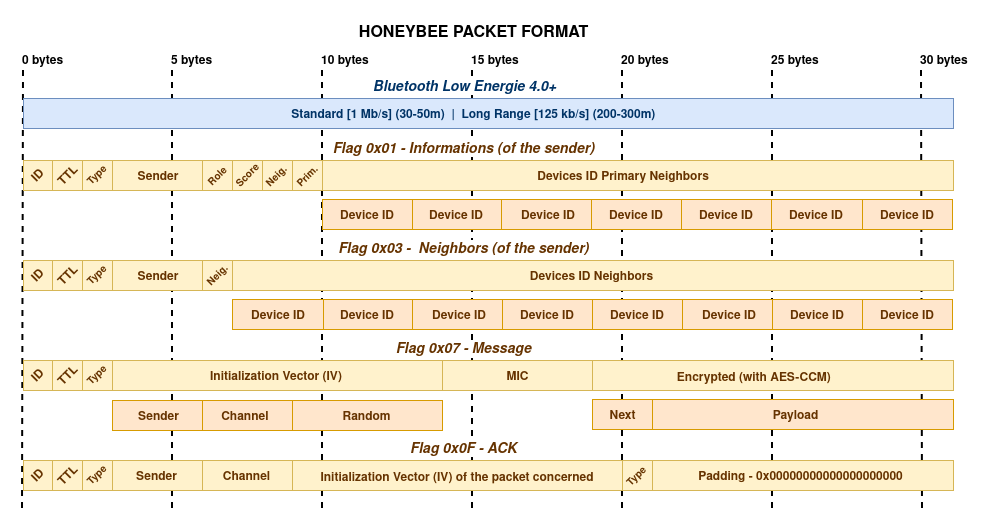
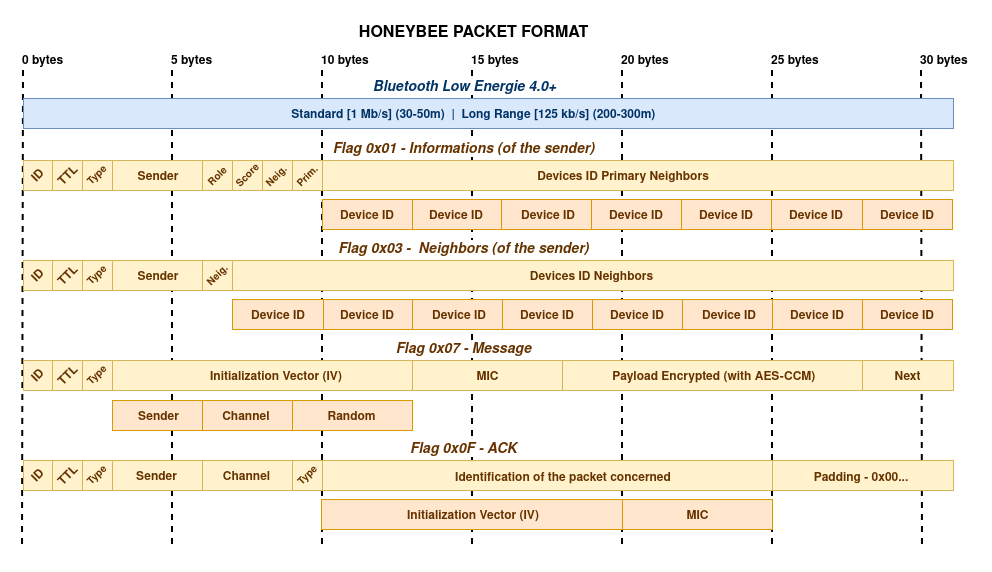
Change frame structure

diff --git a/mechanisms/PACKET.md b/mechanisms/PACKET.md
@@ -45,7 +45,7 @@ Type provide information about the type of packet?
 | **Score**     | 1     |                                                    | `0x12`               |
 | **Neighbor**  | 1     | Number of the neighbor.                            | `0xA1`               |
 | **Primary**   | 1     | Number of the primary neighbor.                    | `0x01`               |
-| **Devices ID Primary** | 21    | Contains max seven (7) devices ID.        |                      |
+| **Devices ID Primary** | 21    | Contains max seven (7) devices ID.        | -                     |
 
 ---
 
@@ -55,7 +55,7 @@ Type provide information about the type of packet?
 | ------------- | ----- | -------------------------------------------------- | -------------------- |
 | **Sender**    | 3     | Identifiant of the sender.                         | `0x123456`           |
 | **Neighbor**  | 1     | Number of the neighbor.                            | `0xA1`               |
-| **Devices ID Neighbor** | 24    | Contains max eight (8) devices ID.       |                      |
+| **Devices ID Neighbor** | 24    | Contains max eight (8) devices ID.       | -                     |
 
 ---
 
@@ -67,7 +67,8 @@ Type provide information about the type of packet?
 | **Channel**   | 3     | Identifiant of the channel.                        | `0x011145`           |
 | **Random**    | 5     | Random number between 0 and 2^40.                  | `0x1234567890`       |
 | **MIC**       | 5     | AES-CCM authentication tag. Message integrity check.   | `0xA1B2C3D4`     |
-| **Encrypted** | 12    | Contains `Next (2) + Payload (10)` (encrypted).    | See below            |
+| **Payload**   | 10    | -                                                  | See below            |
+| **Next**      | 3     | Identifiant of the channel.                        | `0x011145`           |
 
 #### 3.2. Channel (3 byte)
 
@@ -92,17 +93,16 @@ The randomly generated number serves two purposes:
 
 AES-CCM authentication tag. Message integrity check.  
 
-#### 3.5. Encrypted Payload (12 bytes)
+#### 3.5. Encrypted Payload (10 bytes)
 
-| Field       | Bytes | Description                                                                   |
-| ----------- | ----- | ----------------------------------------------------------------------------- |
-| **Next**    | 2     | Link to next packet: `hash(channel + next_next + next_payload) % 2^16`. </br>`0x000000` for last packet. |
-| **Payload** | 10    | Actual data.                                                                  |
 
-Calculating the Next value strengthens the chain's integrity. By performing `hash(Channel + Next (next packet) + Payload (next packet))` in the packet's Next value, each packet is cryptographically linked to:
-- Channel (to prevent confusion between channel).
-- Next value of the following packet (to prevent packet reordering).
-- Payload of the following packet (to prevent modifications).
+
+#### 3.6. Next (3 bytes)
+
+Calculating the Next value strengthens the chain's integrity. By performing `xxHash(IV (next packet) + MIC (next packet) + Next (next packet)) % 2^24` in the packet's Next value, each packet is cryptographically linked to:
+- IV value of the following packet
+- MIC value of the following packet
+- Next value of the following packet (to prevent packet reordering)
 
 Furthermore, an attacker can no longer replace a packet with one from a different channel, because the Next value would be different.
 
@@ -114,5 +114,7 @@ Furthermore, an attacker can no longer replace a packet with one from a differen
 | ------------- | ----- | -------------------------------------------------- | -------------------- |
 | **Sender**    | 3     | Identifiant of the sender.                         | `0x123456`           |
 | **Channel**   | 3     | Identifiant of the channel.                        | `0x123456`           |
-| **IV**        | 11    | IV of the packet concerned.                        | `0xA1B2C3D4E5F6A7B8C9A1B2` |
 | **Type**      | 1     | Type of the ACK.                                   | `0x04`               |
+| **IV**        | 10    | IV of the packet concerned.                        | `0xA1B2C3D4E5F6A7B8C9D0` |
+| **MIC**       | 5     | MIC of the packet concerned.                       | `0xA1B2C3D4E5`       |
+| **Padding**   | 5     |                                                    | `0x00...`            |

diff --git a/mechanisms/ACKNOWLEDGEMENT.md b/mechanisms/ACKNOWLEDGEMENT.md
@@ -1,4 +1,6 @@
-## Acknowledgement Mechanism  
+
+## Acknowledgement Mechanism  
+  
   
 > [Acknowledgement (data networks) - Wikipedia](https://en.wikipedia.org/wiki/Acknowledgement_(data_networks))
 
@@ -9,7 +11,72 @@ If the ACK packet is lost, then nothing happens. Indeed, each packet is sent aro
 
 #### ELODRI logique (Ensure Least One Device Received It)
 
-If we only wait to receive an ACK MISSING packet before resending a data packet, it's problematic if our data packet is lost without anyone receiving it. To increase the chances of a device receiving it, in backend task asynchronous, if after $TTL \times 500\text{ms}$ there is not at least one ACK indicating that the sent data has been correctly received, then the data is resent and another $TTL \times 500\text{ms}$  are waited. If after three attempts _(so, $3 \times TTL \times 500\text{ms}$  after the first send, four packets sent in total)_, the process is abandoned.
+If we only wait to receive an ACK MISSING packet before resending a data packet, it's problematic if our data packet is lost without anyone receiving it. To increase the chances of a device receiving it, in backend task asynchronous, if after $5\text{s}$ there is not at least one ACK indicating that the sent data has been correctly received, then the data is resent and another $5\text{s}$  are waited. If after three attempts _(so, $3 \times 5\text{s}$  after the first send, four packets sent in total)_, the process is abandoned.
+
+```mermaid
+%% Diagram of ELODRI Logic (Ensure Least One Device Received It)
+flowchart TD
+    %% Styles
+    classDef start fill:#4CAF50,color:#fff,stroke:#2E7D32;
+    classDef process fill:#E3F2FD,stroke:#90CAF9;
+    classDef decision fill:#FFEB3B,stroke:#FFA000;
+    classDef endNode fill:#F44336,color:#fff,stroke:#C62828;
+    classDef timeout fill:#FF9800,color:#fff,stroke:#E65100;
+
+    %% Start of the process
+    A[Start: Send a packet]:::start
+
+    %% Waiting for ACK
+    B[Wait DELAY]:::process
+
+    %% Decision: ACK received?
+    C{ACK received?}:::decision
+
+    %% If ACK received
+    D[Packet received]:::process
+    E[End: Success]:::endNode
+
+    %% If no ACK received
+    F[No ACK]:::decision
+    G[Resend packet]:::process
+    H[Wait DELAY]:::process
+
+    %% Second attempt
+    I{ACK received?}:::decision
+    J[Packet received]:::process
+    K[End: Success]:::endNode
+
+    %% If still no ACK
+    L[No ACK]:::decision
+    M[Resend packet]:::process
+    N[Wait DELAY]:::process
+
+    %% Third attempt
+    O{ACK received?}:::decision
+    P[Packet received]:::process
+    Q[End: Success]:::endNode
+
+    %% After 3 attempts
+    R[No ACK]:::decision
+    S[Resend packet]:::process
+    U[End: Abandon]:::endNode
+
+    %% Connections
+    A --> B --> C
+    C -->|Yes| D --> E
+    C -->|No| F --> G --> H --> I
+    I -->|Yes| J --> K
+    I -->|No| L --> M --> N --> O
+    O -->|Yes| P --> Q
+    O -->|No| R --> S --> U
+
+    %% Legend
+    subgraph Legend
+        direction TB
+        L1[5s = DELAY]:::timeout
+        L2[Max 3 attempts]:::process
+    end
+```
 
 #### Priority
 ACKs are processed with priority by the network.
@@ -62,4 +129,5 @@ sequenceDiagram
     DeviceN ->> DeviceX: Packet 3
     DeviceX ->> DeviceN: MISSING Packet 2
     DeviceN ->> DeviceX: Packet 2
+    DeviceX ->> DeviceN: ACK Packet 3
 ```

diff --git a/mechanisms/CONFIDENTIALITY.md b/mechanisms/CONFIDENTIALITY.md
@@ -4,7 +4,7 @@
 ### **1. Encryption and Authentication**
 
 - **Algorithm**: AES-CCM-128 (16-bytes key).
-- **IV**: 11 bytes (`Sender (3) + Channel (3) + Random (5)`) for uniqueness.
+- **IV**: 11 bytes (`Sender (3) + Channel (3) + Random (4)`) for uniqueness.
 - **MIC**: 5 bytes for authentication (tamper detection).
 
 #### Initialization Vector (IV)
@@ -89,14 +89,18 @@ The `Next` field is used for fragmentation by indicating which packet comes afte
 - **Cryptographic `Next`**: Prevents packet modification/reordering.
 - **MIC**: Detects tampering.
   
-### 6. Risk of collision MIC
+### 6. Risk of collision
 
-The probability of collision for a space of N possible value (here, $2^{40}$ for 40 bytes MIC) with `k` packets (here, $10^{9}$ for example) is approximated by :  
+#### MIC
+
+The length of MIC is 5 bytes (40 bits).
+
+The probability of collision for a space of N possible value (here, $2^{40}$ for 40 bits MIC) with `k` packets (here, $10^{6}$ for example) is approximated by :  
   
 $P(\text{collision}) \approx 1 - e^{-k^2 / (2N)}$  
 - $N = 2^{40}$ (number of possible MIC).  
-- $k = 10^{9}$ (number of packet exchanged). 
+- $k = 10^{6}$ (number of packet exchanged). 
   
-$P(\text{collision}) \approx 1 - e^{-(10^9)^2 / (2 \times 2^{40})} \approx 1 - e^{-10^{18} / 2^{41}} \approx 1 - e^{-0.00045} \approx 0.00045$  
+$P(\text{collision}) \approx 1 - e^{-(10^6)^2 / (2 \times 2^{40})} \approx 1 - e^{-10^{12} / 2^{41}} \approx 1 - e^{-0.4547} \approx 1 - 0.63 \approx 0.37$  
 
-The probability of collision for a 40-bit MIC ($N = 2^{40}$) with 1 billion packets ($k = 10^9$) is approximately 0.045% (1 collision every ~220,000 packets).
+The probability of collision for a 40-bit MIC ($N = 2^{40}$) with 1 million packets ($k = 10^6$) is approximately 37%.

diff --git a/mechanisms/NETWORK.md b/mechanisms/NETWORK.md
@@ -117,7 +117,7 @@ $$S_{fiab} = \text{success\_rate} \times 100$$
 
 #### F. Total Score Formula ($S_{base}$)
 
-$$S_{base} = ((S_{vois} \times 0.30) + (S_{mob} \times 0.20) + (S_{RSSI} \times 0.15) + (S_{fiab} \times 0.15)) \times (S_{bat} / 100)$$
+$$S_{base} = ((S_{vois} \times 0.30) + (S_{mob} \times 0.20) + (S_{RSSI} \times 0.15) + (S_{fiab} \times 0.15)) \times (\frac{S_{bat}}{100})$$
 
 $$S_{base} = \max(0, \min(100, S_{base}))$$
 
